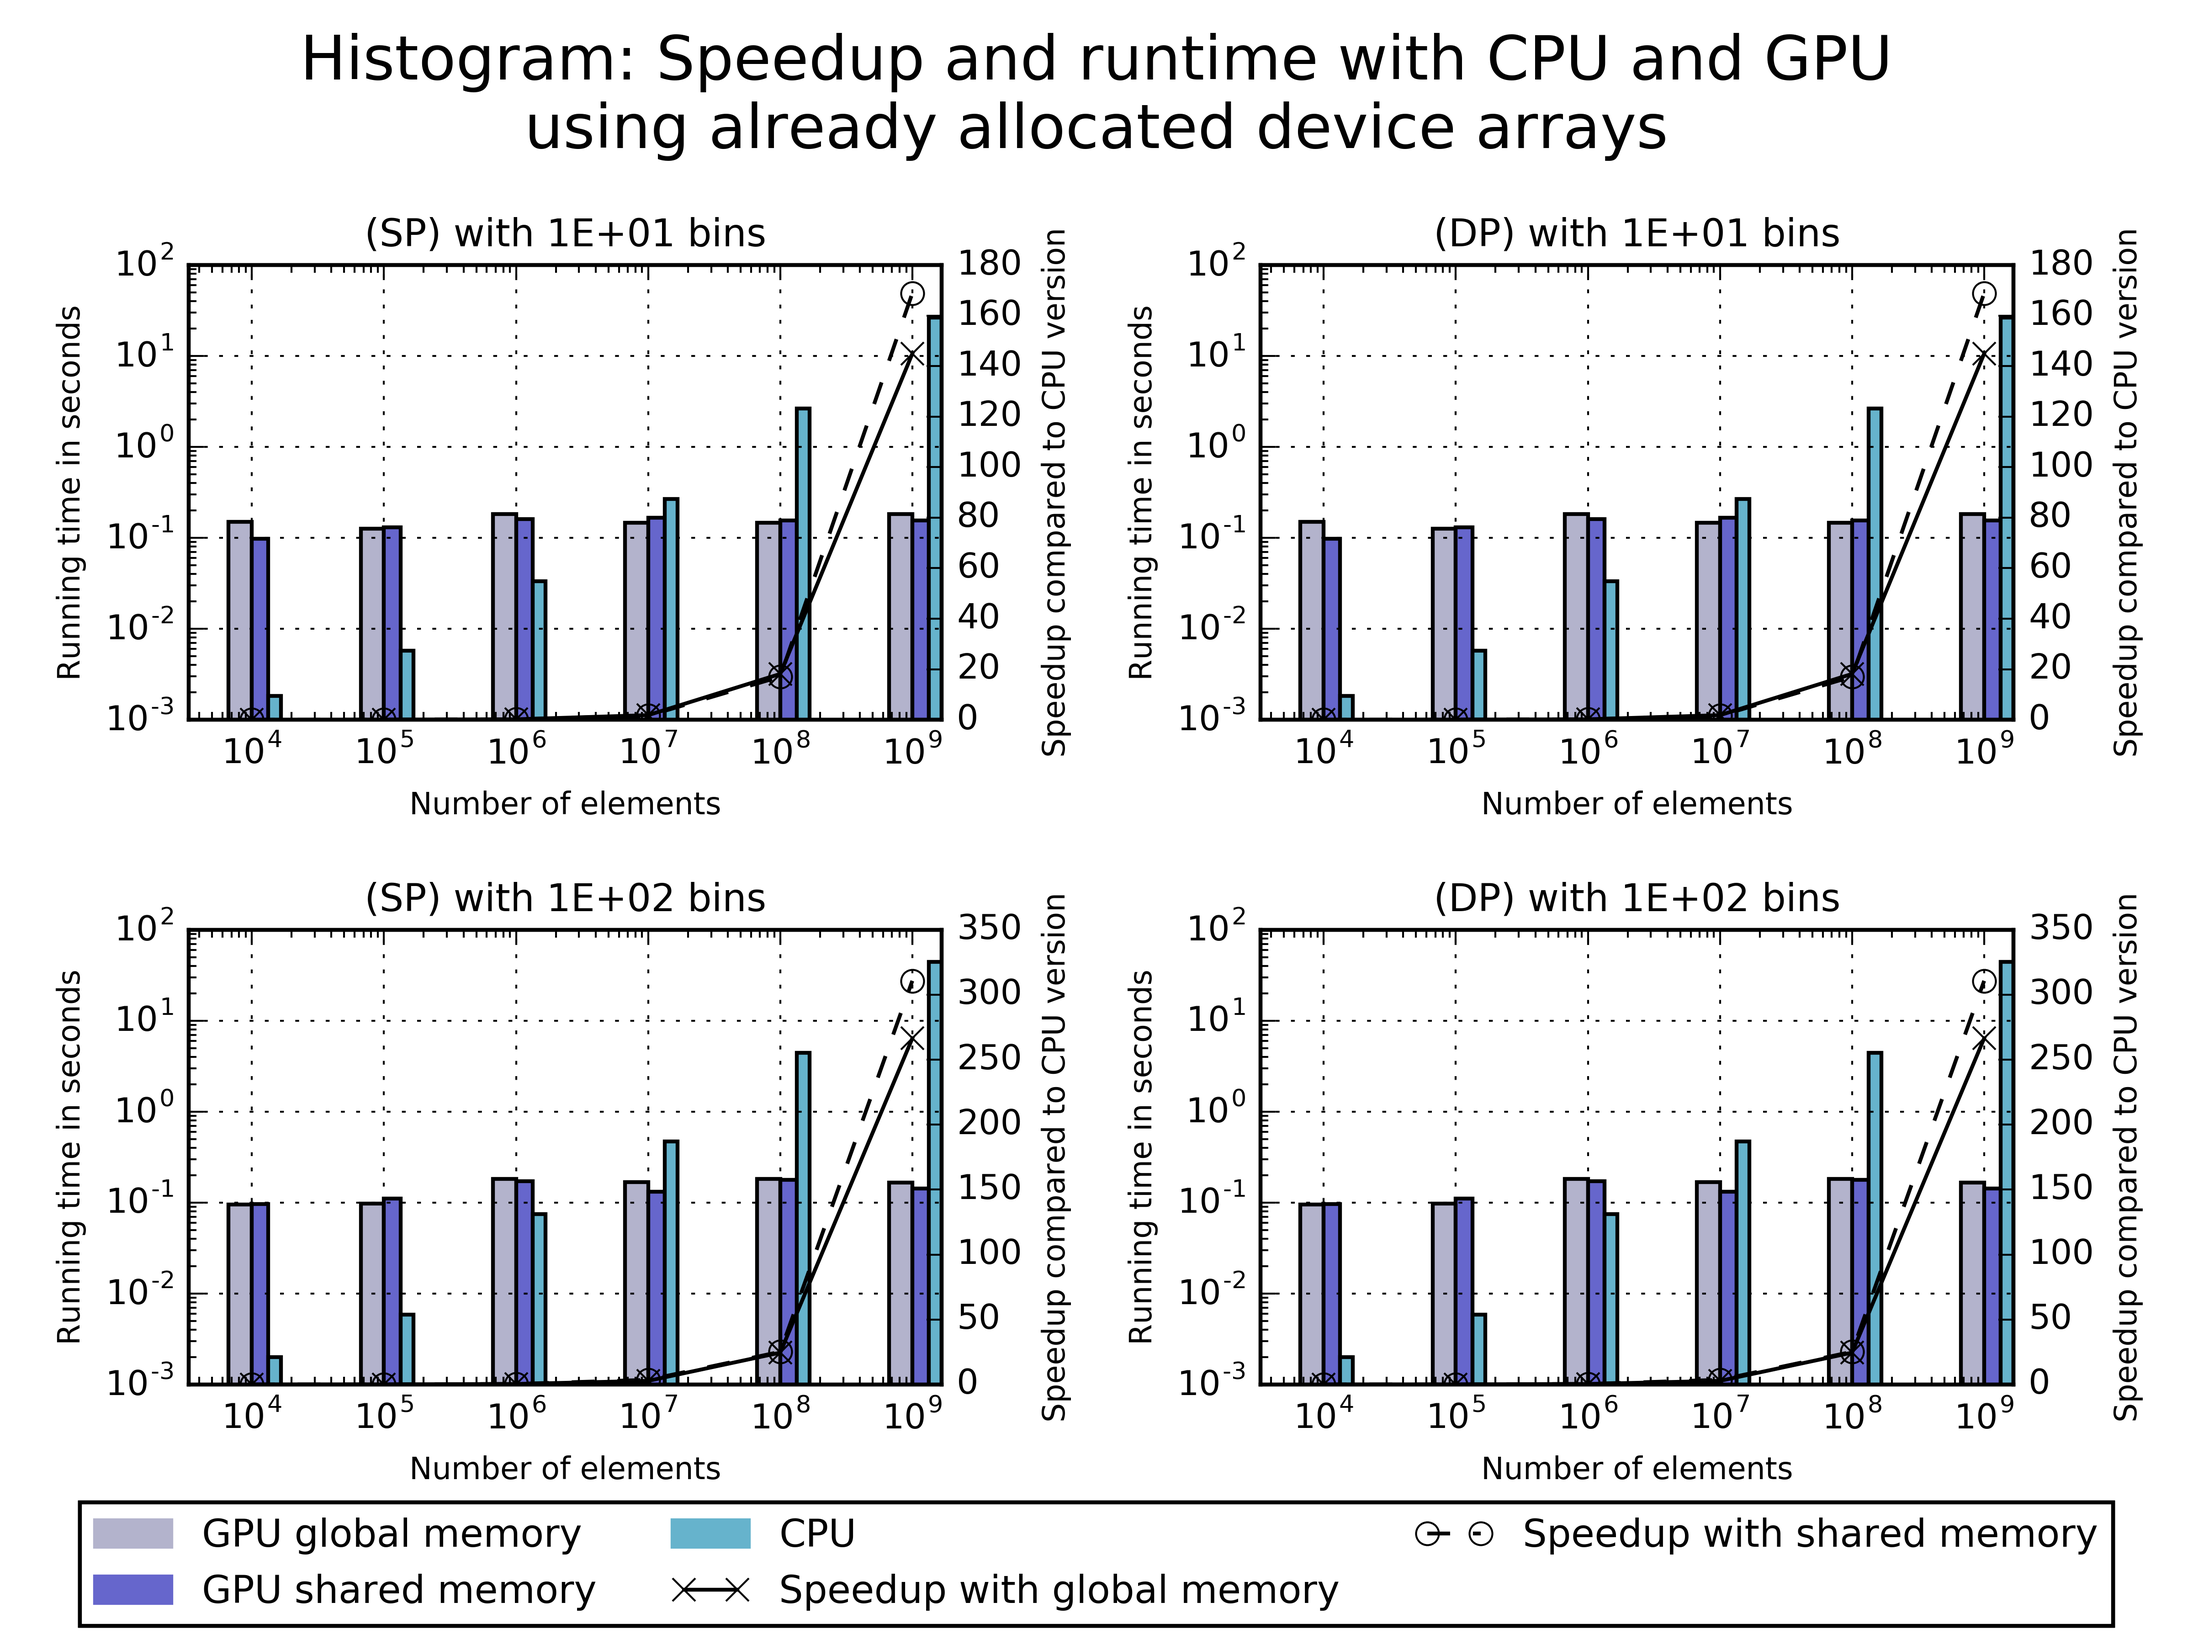
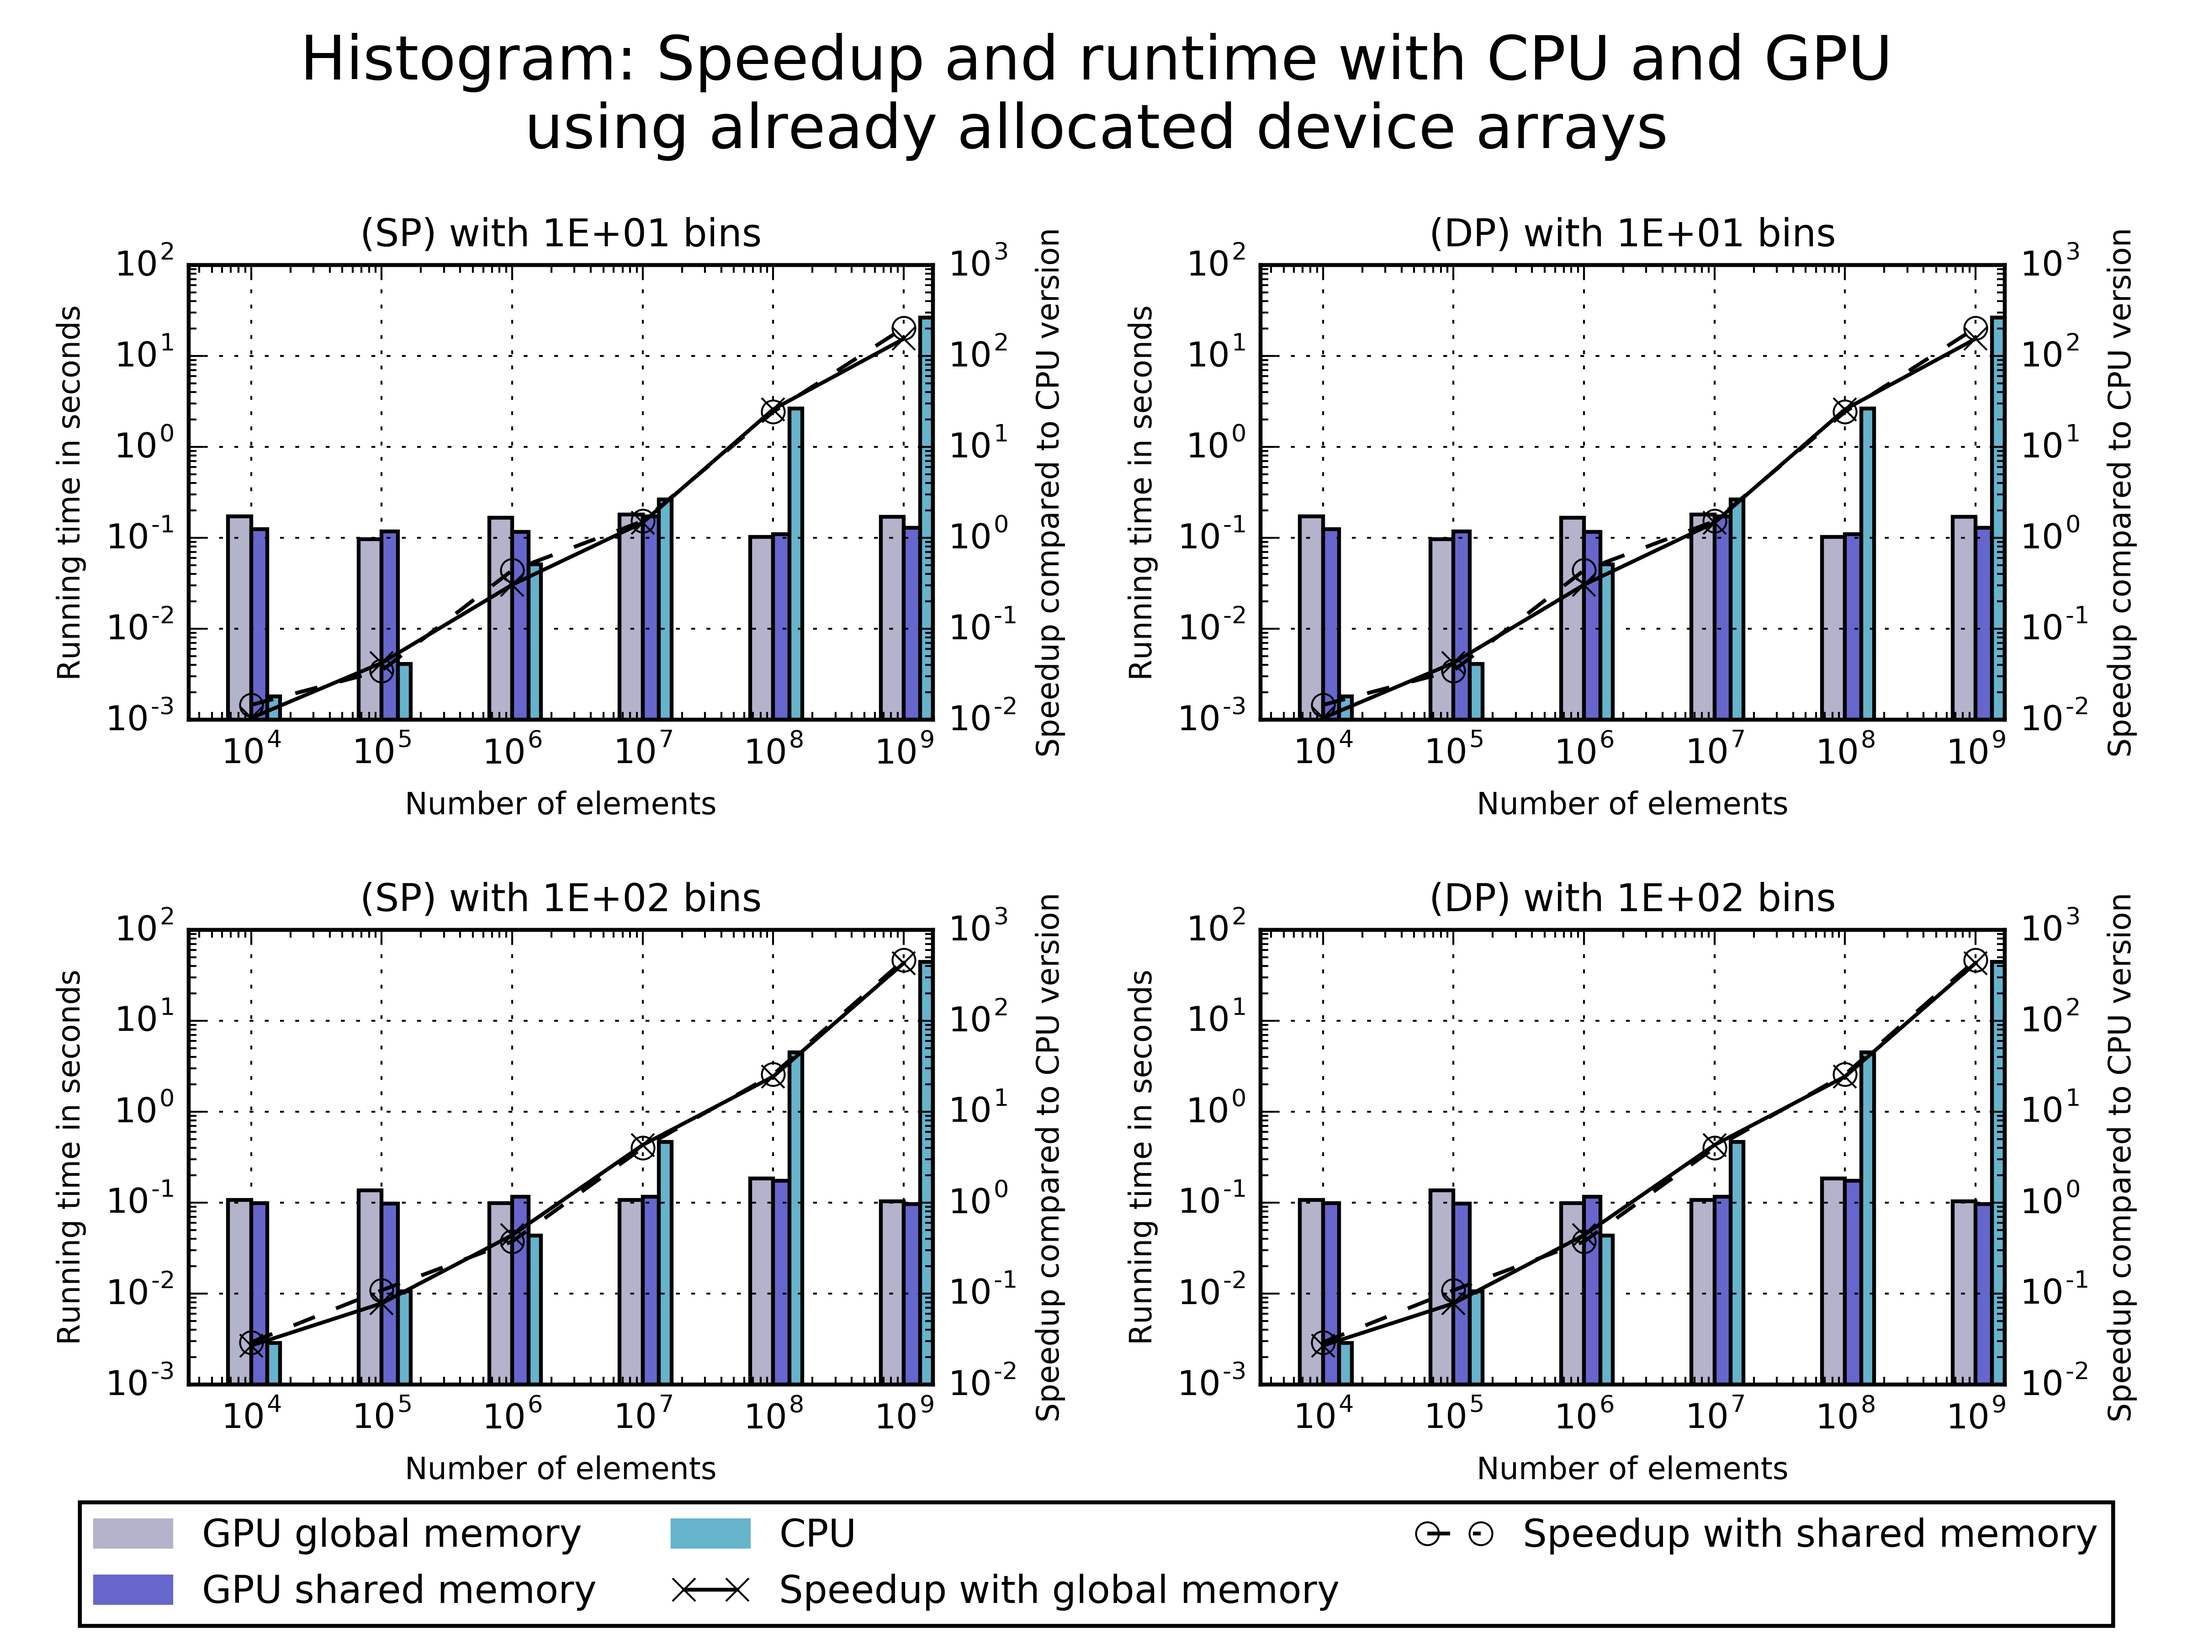
Made new plots with logarithmic scale on all axes.

diff --git a/main.py b/main.py
@@ -311,6 +311,7 @@ def create_subfig(seq_time1, running_time1_global, running_time1_shared,
     ax1.set_xscale('log')
     ax1.set_yscale('log')
     ax1_speedup = ax1.twinx()
+    ax1_speedup.set_yscale('log')
     speedup1_global = []
     for i in range(0, len(running_time1_global)):
         speedup1_global.append(seq_time1[i]/running_time1_global[i])
@@ -579,8 +580,6 @@ if __name__ == '__main__':
         sys.exit()
 
     if args.full:
-        print("Starting full histogramming")
-
         # First with double precision
         with gpu_hist.GPUHist(FTYPE=FTYPE) as histogrammer:
             histogram_d_gpu_shared, edges_d_gpu_shared = histogrammer.get_hist(
@@ -631,7 +630,6 @@ if __name__ == '__main__':
                     "CPU, single", args.bins)
         sys.exit()
     if args.GPU_both:
-        print("Starting histogramming on GPU only")
         # if not args.all_precisions and args.single_precision then this is
         # single precision. Hence the missing "d" or "s" in the name.
         with gpu_hist.GPUHist(FTYPE=FTYPE) as histogrammer:
@@ -678,7 +676,6 @@ if __name__ == '__main__':
                     "GPU global memory, " + name, args.bins)
 
     if args.GPU_shared and not args.GPU_both:
-        print("Starting histogramming on GPU with shared memory")
         with gpu_hist.GPUHist(FTYPE=FTYPE) as histogrammer:
             histogram_gpu_shared, edges_gpu_shared = histogrammer.get_hist(
                                 bins=edges, n_events=d_input_data, shared=True,
@@ -708,7 +705,6 @@ if __name__ == '__main__':
                     "GPU shared memory, " + name, args.bins)
 
     if args.GPU_global and not args.GPU_both:
-        print("Starting histogramming on GPU with global memory")
         with gpu_hist.GPUHist(FTYPE=FTYPE) as histogrammer:
             histogram_gpu_global, edges_gpu_global = histogrammer.get_hist(
                                 bins=edges, n_events=d_input_data, shared=False,
